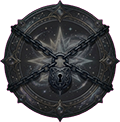
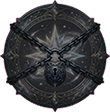
Skill page: center hub node, chains start from the hub, light paths for upgraded links, focus on hub on entry, SP and confirm bar at top center, new lock size
Claude-Session: https://claude.ai/code/session_01W4v7cyzS6Fr8aMVaGgywWE

diff --git a/js/ui.js b/js/ui.js
@@ -889,6 +889,7 @@ function switchView(viewName) {
     if (viewName === 'skills') {
         document.getElementById('view-skills')?.classList.remove('hidden');
         renderSkillPage();
+        skillFocusHub();
     }
     if (viewName === 'setting') document.getElementById('view-setting')?.classList.remove('hidden');
     if (viewName === 'library') {
@@ -2183,12 +2184,16 @@ function renderCharacterSkills() {
 // Dedicated Skills page: skill nodes placed on the star map (04_psd/pageskill/skilllayout.png marker positions, map 4000x2233).
 // Each build chain runs along its node list; a node needs the one before it (req) at the required level.
 const SKILL_MAP = { w: 4000, h: 2233, minS: 0.3, maxS: 1.6 };
+// Center hub node: always on (upgraded look), not clickable. Every build chain starts from a node next to it.
+const SKILL_HUB = [2003, 1106];
+// Map positions (layout markers, 4000x2233). Each chain runs in order; a node needs the one before it.
 const SKILL_NODE_POS = {
-    gold:    [[563, 849], [374, 1122], [650, 1116], [389, 1427], [1199, 1116], [1601, 1116]],
-    exp:     [[2003, 1779], [2237, 1646], [2192, 1899], [2003, 1994], [1823, 1994], [1600, 1890]],
-    attack:  [[1807, 327], [1922, 274], [2124, 274], [2222, 416], [2003, 530], [2003, 1106]],
-    defense: [[3658, 948], [3769, 1247], [3370, 1358], [3200, 1106], [2756, 1106], [2405, 1106]]
+    gold:    [[1601, 1116], [1199, 1116], [650, 1116], [374, 1122], [563, 849], [389, 1427]],
+    exp:     [[2003, 1428], [2003, 1779], [2237, 1646], [2192, 1899], [2003, 1994], [1823, 1994]],
+    attack:  [[2003, 818], [2003, 530], [2222, 416], [2124, 274], [1922, 274], [1807, 327]],
+    defense: [[2405, 1106], [2756, 1106], [3200, 1106], [3658, 948], [3769, 1247], [3370, 1358]]
 };
+const SKILL_NODE_SIZE = { normal: [120, 122], locked: [110, 112] };
 let skillView = null;
 
 function skillApplyView() {
@@ -2219,17 +2224,12 @@ function skillZoomStep(factor) {
     skillZoomAt(vp.offsetWidth / 2, vp.offsetHeight / 2, factor);
 }
 
-function initSkillView() {
+// Attach pan and zoom once
+function skillEnsureView() {
     const vp = document.getElementById('skill-viewport');
-    if (!vp || skillView) return;
-    const vw = vp.offsetWidth, vh = vp.offsetHeight;
-    if (!vw || !vh) return; // page hidden: set up when shown
-    // Default: zoomed to fill the view, as in the layout
-    const s0 = Math.max(vw / SKILL_MAP.w, vh / SKILL_MAP.h);
-    skillView = { s: s0, x: 0, y: 0, drag: null, suppressClick: false };
-    skillView.x = (vw - SKILL_MAP.w * s0) / 2;
-    skillView.y = (vh - SKILL_MAP.h * s0) / 2;
-    // Map coordinates from pointer events (page may be scaled by the stage)
+    if (!vp || vp.dataset.ready || !vp.offsetWidth) return;
+    vp.dataset.ready = '1';
+    skillView = { s: 1, x: 0, y: 0, drag: null, suppressClick: false };
     const local = (e) => {
         const r = vp.getBoundingClientRect();
         const k = r.width / vp.offsetWidth || 1;
@@ -2267,6 +2267,17 @@ function initSkillView() {
     };
     vp.addEventListener('pointerup', endDrag);
     vp.addEventListener('pointercancel', endDrag);
+}
+
+// Default camera: fill the view, centered on the middle (hub) node
+function skillFocusHub() {
+    const vp = document.getElementById('skill-viewport');
+    if (!vp || !skillView || !vp.offsetWidth) return;
+    const vw = vp.offsetWidth, vh = vp.offsetHeight;
+    const s0 = Math.max(vw / SKILL_MAP.w, vh / SKILL_MAP.h);
+    skillView.s = s0;
+    skillView.x = vw / 2 - SKILL_HUB[0] * s0;
+    skillView.y = vh / 2 - SKILL_HUB[1] * s0;
     skillApplyView();
 }
 
@@ -2282,17 +2293,22 @@ function renderSkillPage() {
     const spLeft = player.jobSp - pendingSkillTotal();
     if (spEl) spEl.innerText = spLeft;
 
-    // Star map image, added once
     const mapSlot = document.getElementById('skill-map-slot');
     if (mapSlot && !mapSlot.firstChild) {
         mapSlot.innerHTML = '<img class="skill-map" src="assets/pages/skill/skillmap.jpg" alt="">';
     }
 
-    let html = '';
+    // Node centers per skill key, and lit state of each link (parent -> child)
+    const centers = {};
+    const links = [];
+    let nodesHtml = '';
     let labels = '';
+    const hubLevel = 1; // hub is always on
     SKILL_BUILDS.forEach(b => {
         const chain = Object.entries(player.skills).filter(([, s]) => s.build === b.key);
         const pos = SKILL_NODE_POS[b.key] || [];
+        let parentPos = SKILL_HUB;
+        let parentOn = hubLevel > 0;
         chain.forEach(([k, s], i) => {
             const p = pos[i];
             if (!p) return;
@@ -2302,20 +2318,34 @@ function renderSkillPage() {
             const lvl = s.level + (pendingAlloc.skills[k] || 0);
             const maxed = lvl >= s.maxLv;
             const clickable = !locked && !maxed && spLeft > 0;
+            const isLocked = locked;
             const img = lvl > 0 ? 'assets/pages/skill/skillbuttonup.gif'
-                : (locked ? 'assets/pages/skill/skillbuttonlock.png' : 'assets/pages/skill/skillbutton.png');
+                : (isLocked ? 'assets/pages/skill/skillbuttonlock.png' : 'assets/pages/skill/skillbutton.png');
+            const [w, h] = isLocked ? SKILL_NODE_SIZE.locked : SKILL_NODE_SIZE.normal;
             const title = locked && prev ? `Needs ${prev.name} Lv. ${s.reqLv}` : s.desc;
-            html += `<div class="skill-node ${clickable ? '' : 'is-off'}" title="${title}" style="left:${p[0] - 60}px; top:${p[1] - 61}px;"${clickable ? ` onclick="skillNodeClick(event,'${k}')"` : ''}>
-                <img src="${img}" alt="">
+            centers[k] = p;
+            links.push({ a: parentPos, b: p, lit: lvl > 0 && parentOn });
+            nodesHtml += `<div class="skill-node ${clickable ? '' : 'is-off'}" title="${title}" style="left:${p[0] - w / 2}px; top:${p[1] - h / 2}px; width:${w}px; height:${h}px;"${clickable ? ` onclick="skillNodeClick(event,'${k}')"` : ''}>
+                <img src="${img}" alt="" style="width:${w}px; height:${h}px;">
                 <div class="skill-node-label">${s.name}<br>Lv ${lvl}/${s.maxLv}</div>
             </div>`;
+            parentPos = p;
+            parentOn = lvl > 0;
         });
         if (pos[0] && chain.length) {
             labels += `<div class="skill-build-label" style="left:${pos[0][0]}px; top:${pos[0][1] - 150}px;">${b.name}</div>`;
         }
     });
-    nodes.innerHTML = labels + html;
-    initSkillView();
+
+    // Center hub: upgraded look, not clickable
+    const hubHtml = `<div class="skill-node is-hub" style="left:${SKILL_HUB[0] - 60}px; top:${SKILL_HUB[1] - 61}px; width:120px; height:122px;"><img src="assets/pages/skill/skillbuttonup.gif" alt=""></div>`;
+
+    // Light paths between linked nodes; lit when the node at the far end is upgraded
+    const lines = links.map(l => `<line x1="${l.a[0]}" y1="${l.a[1]}" x2="${l.b[0]}" y2="${l.b[1]}" class="${l.lit ? 'skill-path-lit' : 'skill-path'}"/>`).join('');
+    const svg = `<svg id="skill-paths" width="4000" height="2233" viewBox="0 0 4000 2233"><defs><filter id="skill-glow" x="-30%" y="-30%" width="160%" height="160%"><feGaussianBlur stdDeviation="7" result="blur"/><feMerge><feMergeNode in="blur"/><feMergeNode in="SourceGraphic"/></feMerge></filter></defs>${lines}</svg>`;
+
+    nodes.innerHTML = svg + labels + hubHtml + nodesHtml;
+    skillEnsureView();
     skillApplyView();
 }
 

diff --git a/index.html b/index.html
@@ -29,13 +29,18 @@
         .skill-node { position: absolute; width: 120px; height: 122px; cursor: pointer; }
         .skill-node img { display: block; width: 120px; height: 122px; pointer-events: none; }
         .skill-node.is-off { cursor: default; filter: grayscale(.5) brightness(.85); }
-        .skill-node-label { position: absolute; left: 60px; top: 132px; transform: translateX(-50%); white-space: nowrap; font-size: 26px; font-weight: 700; color: #f5e9cf; text-shadow: 0 2px 6px #000, 0 0 4px #000; pointer-events: none; text-align: center; }
+        .skill-node.is-hub { cursor: default; pointer-events: none; }
+        #skill-paths { position: absolute; left: 0; top: 0; width: 4000px; height: 2233px; pointer-events: none; overflow: visible; }
+        #skill-paths .skill-path { stroke: rgba(70, 60, 45, .6); stroke-width: 8; stroke-linecap: round; }
+        #skill-paths .skill-path-lit { stroke: #8ff0ff; stroke-width: 12; stroke-linecap: round; stroke-dasharray: 26 16; animation: skillFlow 1.1s linear infinite; filter: url(#skill-glow); }
+        @keyframes skillFlow { to { stroke-dashoffset: -84; } }
+        .skill-node-label { position: absolute; left: 50%; top: 132px; transform: translateX(-50%); white-space: nowrap; font-size: 26px; font-weight: 700; color: #f5e9cf; text-shadow: 0 2px 6px #000, 0 0 4px #000; pointer-events: none; text-align: center; }
         .skill-build-label { position: absolute; transform: translateX(-50%); white-space: nowrap; font-size: 40px; font-weight: 900; color: #fde68a; text-shadow: 0 3px 8px #000; pointer-events: none; }
         #skill-zoom { position: absolute; right: 20px; bottom: 20px; z-index: 6; display: flex; flex-direction: column; gap: 8px; }
         #skill-zoom button { width: 56px; height: 56px; border-radius: 12px; background: rgba(231,209,170,.85); border: 2px solid #b8945a; color: #2a1a0e; font-size: 30px; font-weight: 800; cursor: pointer; }
         /* Skill confirm bar: parchment and gold like the page, behind the SP badge */
         #skill-pending-bar { border: 0 !important; box-shadow: none !important; background: transparent !important; }
-        #skill-pending-bar > div { background-color: #dbc5a0 !important; border: 2px solid #c09e6a !important; margin-left: 140px; height: 47px; padding: 3px !important; box-sizing: border-box; }
+        #skill-pending-bar > div { background-color: #dbc5a0 !important; border: 2px solid #c09e6a !important; margin-left: 0; height: 47px; padding: 3px !important; box-sizing: border-box; }
         #skill-pending-bar > div > div { height: 100%; }
         #skill-pending-bar > div > div > button { height: 100%; padding: 0 2px !important; line-height: 1.1; }
         #skill-pending-bar button { background-color: #dbc5a0 !important; border: 1px solid #c09e6a !important; color: #2a1a0e !important; }
@@ -613,11 +618,11 @@
                         <img class="ret-normal" src="assets/cha/button/returnbuttonsmall.png" alt="">
                         <img class="ret-press" src="assets/cha/button/returnbuttonpresssmall.png" alt="">
                     </div>
-                    <div id="skill-sp-badge" class="art-panel" style="left:35px; top:15px; width:130px; height:47px; display:flex; align-items:center; justify-content:center;">
+                    <div id="skill-sp-badge" class="art-panel" style="left:895px; top:15px; width:130px; height:47px; display:flex; align-items:center; justify-content:center;">
                         <span class="text-xs font-bold">SP: <strong id="skill-page-sp">0</strong></span>
                     </div>
                     
-                    <div id="skill-pending-bar" class="art-panel" style="left:35px; top:15px; width:300px; height:47px; padding:0; border:0; z-index:4;"></div>
+                    <div id="skill-pending-bar" class="art-panel" style="left:810px; top:68px; width:300px; height:47px; padding:0; border:0; z-index:4;"></div>
                     <div id="skill-viewport">
                         <div id="skill-world"><div id="skill-map-slot"></div><div id="skill-nodes"></div></div>
                         <div id="skill-zoom"><button onclick="skillZoomStep(1.2)" title="Zoom in">+</button><button onclick="skillZoomStep(1/1.2)" title="Zoom out">&minus;</button></div>
